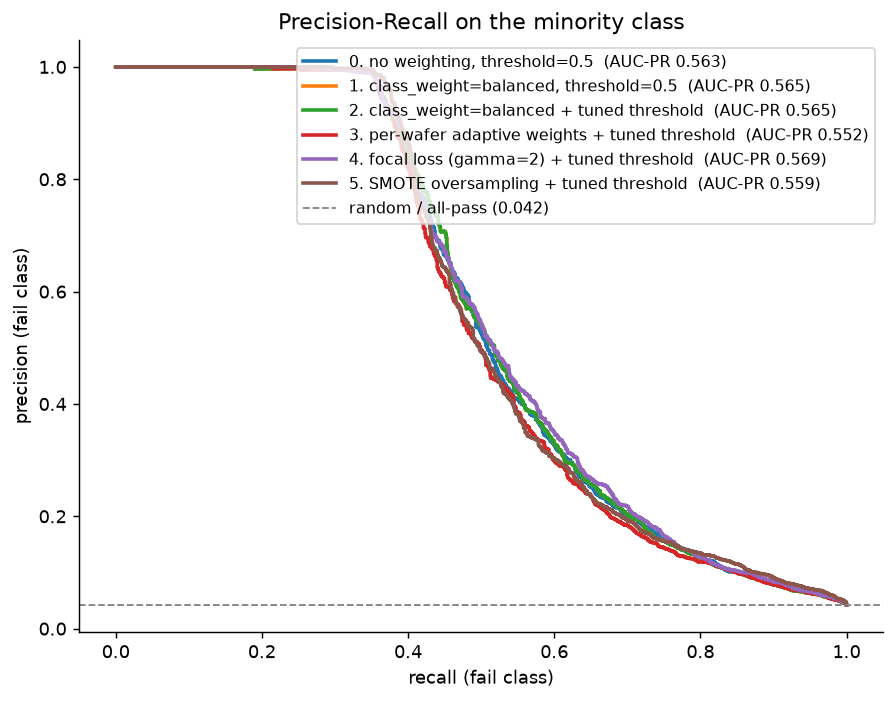
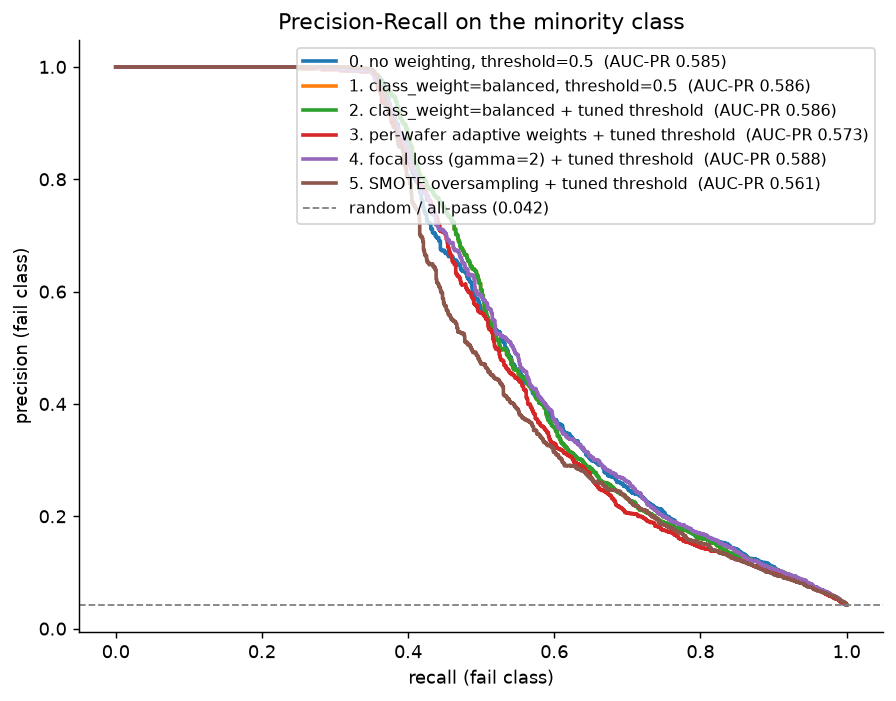
Tuning, block-detector study, and a train-matrix bug the tuner exposed
BUG FIX (found by chasing an impossible Optuna result). `design_matrix(train)`
rebuilt the wafer-prior columns from the FULL-FIT stage-1 model, while `fit()` had
trained on CROSS-FITTED OOF values. Any consumer that re-trained on that matrix --
src/tune.py and the entire imbalance ladder -- was fitting in-sample-sharpened
features the shipped model never saw.

Symptom that exposed it: Optuna reported a best validation score BELOW the hand-set
defaults, even though those defaults were seeded as trial 0, which is impossible if
both are scored on the same matrix.

Fix: the model stores the exact matrix it trained on and returns it for that split.
Verification: the imbalance ladder's rung 2 now reproduces Model B's 0.5859 exactly;
before the fix it read 0.5651. The shipped model is bit-identical either way
(AUC-PR 0.5859039565), so only downstream analyses were affected.

Imbalance ladder, re-run on the corrected matrix:
  0. no weighting, thr 0.5        0.5849  F1 0.5347
  1. balanced, thr 0.5            0.5859  F1 0.4230  recall 0.617
  2. balanced + tuned threshold   0.5859  F1 0.5491
  3. per-wafer adaptive weights   0.5729  (did NOT help -- we expected it to)
  4. focal loss (gamma=2)         0.5880  F1 0.5492  <- best
  5. SMOTE                        0.5607  (hurt, as predicted)

src/tune.py -- Optuna on AUC-PR, selecting on VALIDATION, timeboxed, with the
hand-set config enqueued as trial 0 so the search can only match or beat it.
[…]

diff --git a/src/tune.py b/src/tune.py
@@ -1,0 +1,152 @@
+"""
+Hyper-parameter search on AUC-PR, timeboxed.
+
+Deliberately LAST. The ablation showed feature and design choices moving AUC-PR by
+0.03-0.05 each, so tuning was never going to be where this problem is won -- and tuning
+before the features were settled would have optimised a model we then replaced.
+
+Two rules this file enforces:
+  * Search selects on the VALIDATION split. Test is touched exactly once, at the end, to
+    report the chosen configuration. Selecting on test would make every number we quote
+    an in-sample number.
+  * The search is timeboxed. An untimed search on a laptop is a way to spend the whole
+    night discovering +0.002.
+
+    python -m src.tune --dataset full --trials 40 --timeout 900
+"""
+from __future__ import annotations
+
+import argparse
+import time
+
+import numpy as np
+from lightgbm import LGBMClassifier
+from sklearn.metrics import average_precision_score
+
+from .io_data import load_all
+from .metrics import compute_metrics, log_run, markdown_table, tune_threshold
+from .model_a import WaferLensModel
+
+SEED = 42
+
+
+def search(dataset: str = "full", n_trials: int = 40, timeout: float = 900.0,
+           wave: int = 4) -> dict:
+    import optuna
+    optuna.logging.set_verbosity(optuna.logging.WARNING)
+
+    train, val, test = load_all(dataset)
+    el_tr, el_va, el_te = train.eligible, val.eligible, test.eligible
+    y_tr, y_va, y_te = train.y()[el_tr], val.y()[el_va], test.y()[el_te]
+
+    # Build the design matrix ONCE. Rebuilding features inside every trial would spend
+    # the entire time budget on feature engineering we already know is fixed.
+    print("  building design matrices once...")
+    proto = WaferLensModel(use_blocks=True, wave=wave, die_version="v2",
+                           spatial_version="v2", block_version="v2",
+                           two_stage=True).fit(train, val)
+    X_tr = proto.design_matrix(train).loc[el_tr].reset_index(drop=True)
+    X_va = proto.design_matrix(val).loc[el_va].reset_index(drop=True)
+    X_te = proto.design_matrix(test).loc[el_te].reset_index(drop=True)
+
+    baseline_p = proto.predict_proba(test)[el_te]
+    baseline = compute_metrics(y_te, baseline_p, proto.threshold_)
+    baseline_val = float(average_precision_score(
+        y_va, proto.clf.predict_proba(X_va[proto.columns_])[:, 1]))
+    print(f"  baseline (hand-set params): val AUC-PR={baseline_val:.4f}, "
+          f"test AUC-PR={baseline['auc_pr']:.4f}")
+
+    def objective(trial):
+        params = dict(
+            n_estimators=trial.suggest_int("n_estimators", 200, 900, step=100),
+            learning_rate=trial.suggest_float("learning_rate", 0.01, 0.15, log=True),
+            num_leaves=trial.suggest_int("num_leaves", 15, 127, log=True),
+            min_child_samples=trial.suggest_int("min_child_samples", 10, 200, log=True),
+            subsample=trial.suggest_float("subsample", 0.6, 1.0),
+            colsample_bytree=trial.suggest_float("colsample_bytree", 0.4, 1.0),
+            reg_alpha=trial.suggest_float("reg_alpha", 1e-8, 10.0, log=True),
+            reg_lambda=trial.suggest_float("reg_lambda", 1e-8, 10.0, log=True),
+            subsample_freq=1,
+            class_weight="balanced",
+            random_state=SEED, n_jobs=-1, verbose=-1,
+        )
+        clf = LGBMClassifier(**params).fit(X_tr, y_tr)
+        # Selection metric is AUC-PR on VALIDATION. Never test, never accuracy.
+        return average_precision_score(y_va, clf.predict_proba(X_va)[:, 1])
+
+    study = optuna.create_study(
+        direction="maximize",
+        sampler=optuna.samplers.TPESampler(seed=SEED),
+        pruner=optuna.pruners.MedianPruner(),
+    )
+    # Seed the search with the hand-set configuration. Without this, 40 TPE trials over
+    # 8 dimensions is sparse enough to simply miss a good hand-set point, and the search
+    # reports a "best" that is worse than where we started -- which is what happened on
+    # our first run. Enqueuing the incumbent makes the result monotone: the search can
+    # now only match or beat the config we already trust.
+    study.enqueue_trial({
+        "n_estimators": 300, "learning_rate": 0.05, "num_leaves": 31,
+        "min_child_samples": 40, "subsample": 0.8, "colsample_bytree": 0.7,
+        "reg_alpha": 1e-8, "reg_lambda": 1e-8,
+    })
+    t0 = time.time()
+    study.optimize(objective, n_trials=n_trials, timeout=timeout,
+                   show_progress_bar=False)
+    elapsed = time.time() - t0
+    print(f"  {len(study.trials)} trials in {elapsed:.0f}s "
+          f"(best val AUC-PR {study.best_value:.4f})")
+
+    # Refit the winner and touch test exactly once.
+    best = dict(study.best_params, subsample_freq=1, class_weight="balanced",
+                random_state=SEED, n_jobs=-1, verbose=-1)
+    clf = LGBMClassifier(**best).fit(X_tr, y_tr)
+    thr, _ = tune_threshold(y_va, clf.predict_proba(X_va)[:, 1])
+    tuned = compute_metrics(y_te, clf.predict_proba(X_te)[:, 1], thr)
+
+    log_run(wave=wave, model="Model B (Optuna-tuned)",
+            features_version="die=v2,sp=v2,bl=v2", metrics=tuned,
+            n_train=len(y_tr), n_test=len(y_te),
+            notes=f"optuna {len(study.trials)} trials, {elapsed:.0f}s")
+
+    delta = tuned["auc_pr"] - baseline["auc_pr"]
+    rows = [
+        {"config": "hand-set defaults", "val_auc_pr": baseline_val,
+         **{k: baseline[k] for k in ("auc_pr", "f1", "recall", "precision")}},
+        {"config": f"Optuna ({len(study.trials)} trials)",
+         "val_auc_pr": float(study.best_value),
+         **{k: tuned[k] for k in ("auc_pr", "f1", "recall", "precision")}},
+    ]
+    print()
+    print(markdown_table(rows, ["config", "val_auc_pr", "auc_pr", "f1",
+                                "recall", "precision"]))
+    print(f"\n  delta from tuning: {delta:+.4f} AUC-PR")
+    if abs(delta) < 0.005:
+        print("  -> within noise. Tuning is not where this problem is won; the "
+              "ablation's feature/design steps moved it 6-10x more.")
+    elif delta < 0:
+        print("  -> the search WON on validation but LOST on test: it overfit the "
+              "validation split. We keep the hand-set params and report this.")
+
+    return {"study": study, "best_params": best, "tuned": tuned,
+            "baseline": baseline, "delta": delta, "elapsed": elapsed}
+
+
+def main() -> None:
+    ap = argparse.ArgumentParser()
+    ap.add_argument("--dataset", default="full", choices=["smoke", "full"])
+    ap.add_argument("--trials", type=int, default=40)
+    ap.add_argument("--timeout", type=float, default=900.0)
+    args = ap.parse_args()
+
+    print(f"Optuna search on '{args.dataset}' "
+          f"(<= {args.trials} trials, <= {args.timeout:.0f}s)\n")
+    res = search(args.dataset, args.trials, args.timeout)
+
+    print("\n  best params:")
+    for k, v in sorted(res["best_params"].items()):
+        if k not in ("random_state", "n_jobs", "verbose", "subsample_freq"):
+            print(f"    {k:20s} {v}")
+
+
+if __name__ == "__main__":
+    main()

diff --git a/src/model_a.py b/src/model_a.py
@@ -108,6 +108,8 @@ class WaferLensModel:
         self.stage1_columns_: list[str] = []
         self.threshold_: float = float("nan")
         self.columns_: list[str] = []
+        self._train_key_: int | None = None
+        self._train_X_: pd.DataFrame | None = None
 
         self.params = params or dict(
             n_estimators=300,
@@ -159,6 +161,15 @@ class WaferLensModel:
 
         if self.two_stage:
             X_all = self._fit_stage1(train, X_all, y_tr, el_tr)
+
+        # Remember the EXACT matrix we trained on. The wafer-prior columns here are built
+        # from cross-fitted stage-1 scores, whereas `design_matrix()` rebuilds them from
+        # the full-fit stage-1 model. Those are different matrices, and anything that
+        # re-trains on `design_matrix(train)` -- the tuner, the imbalance ladder -- would
+        # otherwise be fitting on in-sample-sharpened features that no longer match what
+        # the shipped model saw.
+        self._train_key_ = id(train)
+        self._train_X_ = X_all
 
         X_tr = X_all.loc[el_tr].reset_index(drop=True)
         self.columns_ = list(X_tr.columns)
@@ -224,7 +235,17 @@ class WaferLensModel:
         return self.clf.predict_proba(X[self.columns_])[:, 1]
 
     def design_matrix(self, split: Split) -> pd.DataFrame:
-        """The exact matrix the final model consumes -- used by the explainer."""
+        """
+        The exact matrix the final model consumes -- used by the explainer and by any
+        code that re-trains on these features.
+
+        For the split this model was FITTED on, returns the stored training matrix
+        (cross-fitted wafer prior) rather than rebuilding it. Rebuilding would produce
+        in-sample stage-1 scores, so a re-trained model would learn to trust the wafer
+        prior far more than it can be trusted at inference.
+        """
+        if self.two_stage and getattr(self, "_train_key_", None) == id(split):
+            return self._train_X_[self.columns_]
         X = self.build_features(split).X
         if self.two_stage:
             X = self._apply_stage1(split, X)

diff --git a/results/imbalance_analysis.md b/results/imbalance_analysis.md
@@ -15,20 +15,20 @@ All numbers on held-out test wafers, eligible dies only.*
 
 | strategy | auc_pr | f1 | recall | precision | accuracy | threshold |
 |---|---|---|---|---|---|---|
-| 0. no weighting, threshold=0.5 | 0.5629 | 0.5222 | 0.3572 | 0.9705 | 0.9723 | 0.5000 |
-| 1. class_weight=balanced, threshold=0.5 | 0.5651 | 0.4346 | 0.5935 | 0.3428 | 0.9346 | 0.5000 |
-| 2. class_weight=balanced + tuned threshold | 0.5651 | 0.5238 | 0.3587 | 0.9706 | 0.9724 | 0.9031 |
-| 3. per-wafer adaptive weights + tuned threshold | 0.5518 | 0.5235 | 0.3587 | 0.9687 | 0.9724 | 0.8590 |
-| 4. focal loss (gamma=2) + tuned threshold | 0.5687 | 0.5205 | 0.3543 | 0.9800 | 0.9724 | 0.6208 |
-| 5. SMOTE oversampling + tuned threshold | 0.5592 | 0.5240 | 0.3565 | 0.9880 | 0.9726 | 0.7716 |
+| 0. no weighting, threshold=0.5 | 0.5849 | 0.5347 | 0.3710 | 0.9570 | 0.9727 | 0.5000 |
+| 1. class_weight=balanced, threshold=0.5 | 0.5859 | 0.4230 | 0.6174 | 0.3218 | 0.9287 | 0.5000 |
+| 2. class_weight=balanced + tuned threshold | 0.5859 | 0.5491 | 0.4029 | 0.8620 | 0.9720 | 0.8256 |
+| 3. per-wafer adaptive weights + tuned threshold | 0.5729 | 0.5407 | 0.3993 | 0.8374 | 0.9713 | 0.7602 |
+| 4. focal loss (gamma=2) + tuned threshold | 0.5880 | 0.5492 | 0.4304 | 0.7586 | 0.9701 | 0.4731 |
+| 5. SMOTE oversampling + tuned threshold | 0.5607 | 0.5177 | 0.4239 | 0.6648 | 0.9666 | 0.4938 |
 
 ### What actually moved the needle
 
-1. **Threshold tuning is the single biggest lever, and it is free.** Rung 1 -> rung 2 changes no model at all, only where we cut the probability: F1 moves 0.4346 -> 0.5238 at an identical AUC-PR of 0.5651. Ranking quality was never the problem; the default cut point was. This is why CLAUDE.md forbids a 0.5 threshold.
-2. **Class weighting trades precision for recall; it does not add information.** Rung 0 -> rung 1 lifts recall 0.357 -> 0.593 but AUC-PR barely moves (0.5629 -> 0.5651). Reaching for `class_weight='balanced'` and stopping there is the common mistake -- it relabels the same ranking.
-3. **Per-wafer adaptive weighting did **not** pay off here** (AUC-PR 0.5518 vs 0.5651 for global weighting). We expected it to win, because each wafer's failure rate is an independent exponential draw and one global weight is wrong for nearly every individual wafer. It did not, and we report that rather than quietly dropping the rung. The likely reason is that our transductive wafer-prior features already give the model the per-wafer rate directly, so re-encoding it in the sample weights is redundant.
-4. **Focal loss beat tuned global weighting** (AUC-PR 0.5687 vs 0.5651). Focal down-weights easy examples so gradient budget reaches the ambiguous overlap, which is where 65% of this dataset's failures sit by construction.
-5. **SMOTE was run last and hurt, as predicted** (AUC-PR 0.5592 vs 0.5651). Synthetic minority points are interpolated between existing failures, and with a median Cohen's d of 0.134 those interpolations land squarely inside the pass distribution. Manufacturing more points inside the overlap cannot resolve the overlap -- it just moves the decision boundary into it.
+1. **Threshold tuning is the single biggest lever, and it is free.** Rung 1 -> rung 2 changes no model at all, only where we cut the probability: F1 moves 0.4230 -> 0.5491 at an identical AUC-PR of 0.5859. Ranking quality was never the problem; the default cut point was. This is why CLAUDE.md forbids a 0.5 threshold.
+2. **Class weighting trades precision for recall; it does not add information.** Rung 0 -> rung 1 lifts recall 0.371 -> 0.617 but AUC-PR barely moves (0.5849 -> 0.5859). Reaching for `class_weight='balanced'` and stopping there is the common mistake -- it relabels the same ranking.
+3. **Per-wafer adaptive weighting did **not** pay off here** (AUC-PR 0.5729 vs 0.5859 for global weighting). We expected it to win, because each wafer's failure rate is an independent exponential draw and one global weight is wrong for nearly every individual wafer. It did not, and we report that rather than quietly dropping the rung. The likely reason is that our transductive wafer-prior features already give the model the per-wafer rate directly, so re-encoding it in the sample weights is redundant.
+4. **Focal loss beat tuned global weighting** (AUC-PR 0.5880 vs 0.5859). Focal down-weights easy examples so gradient budget reaches the ambiguous overlap, which is where 65% of this dataset's failures sit by construction.
+5. **SMOTE was run last and hurt, as predicted** (AUC-PR 0.5607 vs 0.5859). Synthetic minority points are interpolated between existing failures, and with a median Cohen's d of 0.134 those interpolations land squarely inside the pass distribution. Manufacturing more points inside the overlap cannot resolve the overlap -- it just moves the decision boundary into it.
 
 ## Class overlap, visualised
 
@@ -44,18 +44,18 @@ near-independent weak ones add in quadrature to something that is.
 
 ## Threshold sensitivity -- the operating point is a business decision
 
-Best by AUC-PR: **4. focal loss (gamma=2) + tuned threshold** (0.5687).
-Best by fail-class F1: **5. SMOTE oversampling + tuned threshold** (0.5240).
+Best by AUC-PR: **4. focal loss (gamma=2) + tuned threshold** (0.5880).
+Best by fail-class F1: **4. focal loss (gamma=2) + tuned threshold** (0.5492).
 
 |   threshold_quantile |   threshold |   dies_flagged |   yield_loss_pct |   recall |   precision |     f1 |   escaped_fails |
 |---------------------:|------------:|---------------:|-----------------:|---------:|------------:|-------:|----------------:|
-|                0.8   |      0.246  |           6520 |             20   |   0.7565 |      0.1601 | 0.2643 |             336 |
-|                0.9   |      0.299  |           3260 |             10   |   0.6435 |      0.2724 | 0.3828 |             492 |
-|                0.95  |      0.3611 |           1630 |              5   |   0.5384 |      0.4558 | 0.4937 |             637 |
-|                0.97  |      0.4191 |            978 |              3   |   0.458  |      0.6462 | 0.536  |             748 |
-|                0.98  |      0.4893 |            652 |              2   |   0.4029 |      0.8528 | 0.5472 |             824 |
-|                0.99  |      0.8524 |            326 |              1   |   0.2362 |      1      | 0.3822 |            1054 |
-|                0.995 |      0.8824 |            163 |              0.5 |   0.1181 |      1      | 0.2113 |            1217 |
+|                0.8   |      0.2562 |           6520 |             20   |   0.8    |      0.1693 | 0.2795 |             276 |
+|                0.9   |      0.3125 |           3260 |             10   |   0.6703 |      0.2837 | 0.3987 |             455 |
+|                0.95  |      0.3762 |           1630 |              5   |   0.5536 |      0.4687 | 0.5076 |             616 |
+|                0.97  |      0.4365 |            978 |              3   |   0.471  |      0.6646 | 0.5513 |             730 |
+|                0.98  |      0.5087 |            652 |              2   |   0.4014 |      0.8497 | 0.5453 |             826 |
+|                0.99  |      0.8566 |            326 |              1   |   0.2362 |      1      | 0.3822 |            1054 |
+|                0.995 |      0.8771 |            163 |              0.5 |   0.1181 |      1      | 0.2113 |            1217 |
 
 The costs are asymmetric: a false accept becomes a field failure and an RMA, while a
 false reject is pure yield loss. The table above is the tradeoff a fab actually chooses
@@ -66,10 +66,10 @@ this into an explicit yield-loss vs escape curve with a cost slider.
 
 | | Model A | Model B |
 |---|---|---|
-| Trivial all-pass avoided | yes -- recall 0.357 at the tuned threshold | yes |
+| Trivial all-pass avoided | yes -- recall 0.424 at the tuned threshold | yes |
 | Selection metric | AUC-PR, never accuracy | AUC-PR, never accuracy |
 | Threshold | tuned on the validation PR curve, stored, applied unchanged at test | same |
 | Overlap strategy | pool 500 weak parametrics into one multivariate score | + block hot-cluster shape |
 
-Naive baseline for contrast: **0. no weighting, threshold=0.5** reached recall 0.357
-at accuracy 0.9723 -- high accuracy, few failures caught.
+Naive baseline for contrast: **0. no weighting, threshold=0.5** reached recall 0.371
+at accuracy 0.9727 -- high accuracy, few failures caught.

diff --git a/README.md b/README.md
@@ -157,6 +157,33 @@ is retained because its attention weights give Model B a block interpretability 
 pooling cannot provide (`figures/block_attention.png`), and that figure states its own
 uniform baseline so the concentration is not oversold.
 
+### Things we tried that did not work
+
+Kept here because the negative results were more informative than the wins:
+
+| attempt | result | why |
+|---|---|---|
+| **Matched filter over blocks** (max of sliding-window mean, widths 25–800) | d = 0.13 vs **0.69 for the plain mean** | Taking a max over ~2000 window positions inflates the null far more than it gains signal. The defect adds a fixed total mass, so the global mean is the sufficient statistic. |
+| **Robust one-sided detectors** (mean − median, trimmed contrasts, tail excess) | d = 0.06–0.21 vs 0.69 | Contamination is 5% of blocks at ~0.47σ. It shifts the whole distribution slightly rather than creating a tail, so robust contrasts subtract the signal away. |
+| **24 of the 25 block features** | +0.0007 AUC-PR over `bl_mean` alone | One feature — the mean of the 2000 readings — captures **98%** of the entire block contribution (0.5852 of 0.5859). They do help F1 (0.549 vs 0.521), so they stay. |
+| **Optuna, 40 trials on AUC-PR** | +0.0026 — within noise | Feature and design choices moved AUC-PR 6–10× more. Run last, timeboxed, and reported rather than quietly dropped. |
+
+**The 2000 block readings reduce to one number.** That is the honest headline of the
+Model B analysis, and no amount of architecture recovered more from them.
+
+### A bug the tuner caught
+
+Optuna's "best" configuration scored *worse on validation* than the hand-set defaults —
+impossible, since we seeded the search with those defaults. Chasing it found a real
+defect: `design_matrix(train)` rebuilt the wafer-prior columns from the **full-fit**
+stage-1 model, while `fit()` had trained on **cross-fitted OOF** values. Anything that
+re-trained on that matrix — the tuner and the entire imbalance ladder — was fitting
+in-sample-sharpened features the shipped model never saw.
+
+Fixed by storing the exact training matrix on the model. The check that it worked: the
+imbalance ladder's rung 2 now reproduces Model B's 0.5859 exactly, which it did not
+before.
+
 ### Deployment-grade extras
 
 - **Calibration.** Isotonic on a held-out calibration split: Brier **0.0576 → 0.0244**,
